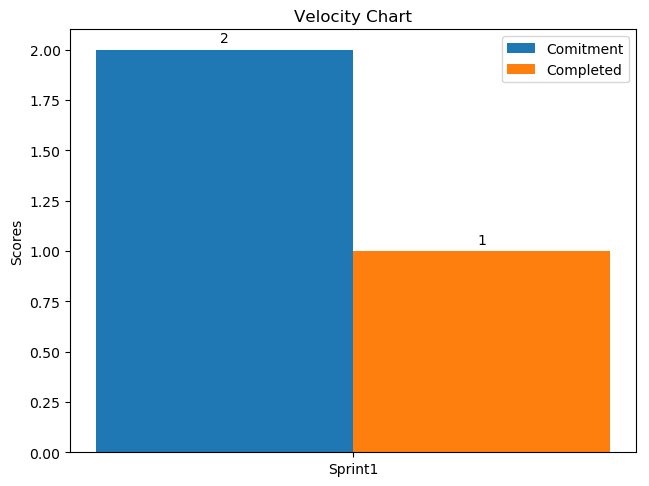
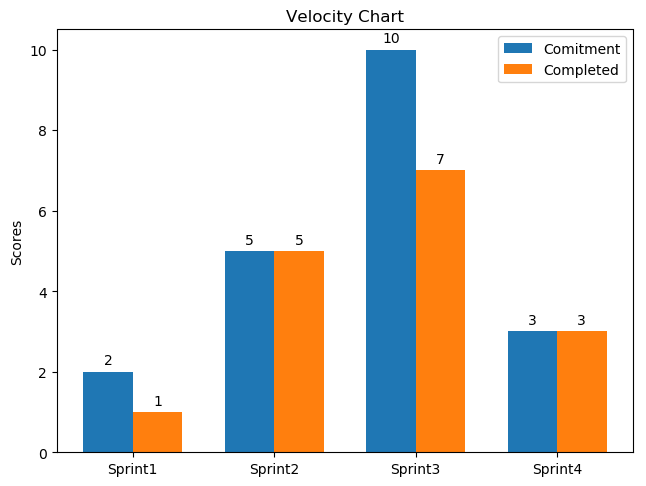
Add charts

diff --git a/charts/burndown.py b/charts/burndown.py
@@ -1,0 +1,34 @@
+import matplotlib.pyplot as plt
+import numpy as np
+from sprint import Sprint
+
+
+class  BurndownChart:
+    def __init__(self, total_points):
+        self.sprints = []
+        self.total_points = total_points
+
+    def addSprint(self, name, commitment, completed):
+        self.sprints.append(Sprint(name, commitment, completed))
+
+    def makeGraph(self):
+		names = [sprint.name for sprint in self.sprints]
+
+		fig, ax = plt.subplots()
+
+		temp_points = self.total_points
+		points_left = []
+		for sprint in self.sprints:
+			points_left.append(temp_points)
+			temp_points -= sprint.completed
+
+		x = [i for i in range(len(names))]
+		plt.plot(x, points_left, color='red', marker='o')
+		plt.title('Burndown Chart')
+		plt.xlabel('Sprints')
+		ax.set_xticks(x)
+		plt.ylabel('Estimated points remaining')
+		ax.set_yticks(np.arange(10, self.total_points + 15, 10))
+		plt.grid(True)
+		plt.savefig("burndown_chart.png", bbox_inches="tight")
+		plt.close()

diff --git a/charts/velocity.py b/charts/velocity.py
@@ -1,10 +1,14 @@
 import matplotlib.pyplot as plt
 import numpy as np
+from sprint import Sprint
 
 
 class VelocityChart:
-    def __init__(self, sprints):
-        self.sprints = sprints
+    def __init__(self):
+        self.sprints = []
+
+    def addSprint(self, name, commitment, completed):
+        self.sprints.append(Sprint(name, commitment, completed))
 
     def makeGraph(self):
         label_locations = np.arange(len(self.sprints))
@@ -57,20 +61,4 @@ class VelocityChart:
         ax.legend()
 
         plt.savefig("velocity_chart.png", bbox_inches="tight")
-
-
-class Sprint:
-    def __init__(self, name, commitment, completed):
-        self.name = name
-        self.commitment = commitment
-        self.completed = completed
-
-
-def main():
-    sprint1 = Sprint("Sprint1", 2, 1)
-    velocity_chart = VelocityChart([sprint1])
-    velocity_chart.makeGraph()
-
-
-if __name__ == "__main__":
-    main()
+        plt.close()

diff --git a/charts/main.py b/charts/main.py
@@ -1,0 +1,28 @@
+from velocity import VelocityChart
+from burndown import BurndownChart
+
+class Charts:
+    def __init__(self, total_points):
+    	self.velocity_chart = VelocityChart()
+    	self.burndown_chart = BurndownChart(total_points)
+
+    def addSprint(self, name, commitment, completed):
+        self.velocity_chart.addSprint(name, commitment, completed)
+        self.burndown_chart.addSprint(name, commitment, completed)
+
+    def makeGraphs(self):
+    	self.velocity_chart.makeGraph()
+    	self.burndown_chart.makeGraph()
+
+def main():
+	total_points = 100
+	charts = Charts(total_points)
+
+	charts.addSprint("Sprint1", 2, 1)
+	charts.addSprint("Sprint2", 5, 5)
+	charts.addSprint("Sprint3", 10, 7)
+	charts.addSprint("Sprint4", 3, 3)
+	charts.makeGraphs()
+
+if __name__ == "__main__":
+    main()

diff --git a/charts/sprint.py b/charts/sprint.py
@@ -1,0 +1,5 @@
+class Sprint:
+    def __init__(self, name, commitment, completed):
+        self.name = name
+        self.commitment = commitment
+        self.completed = completed
